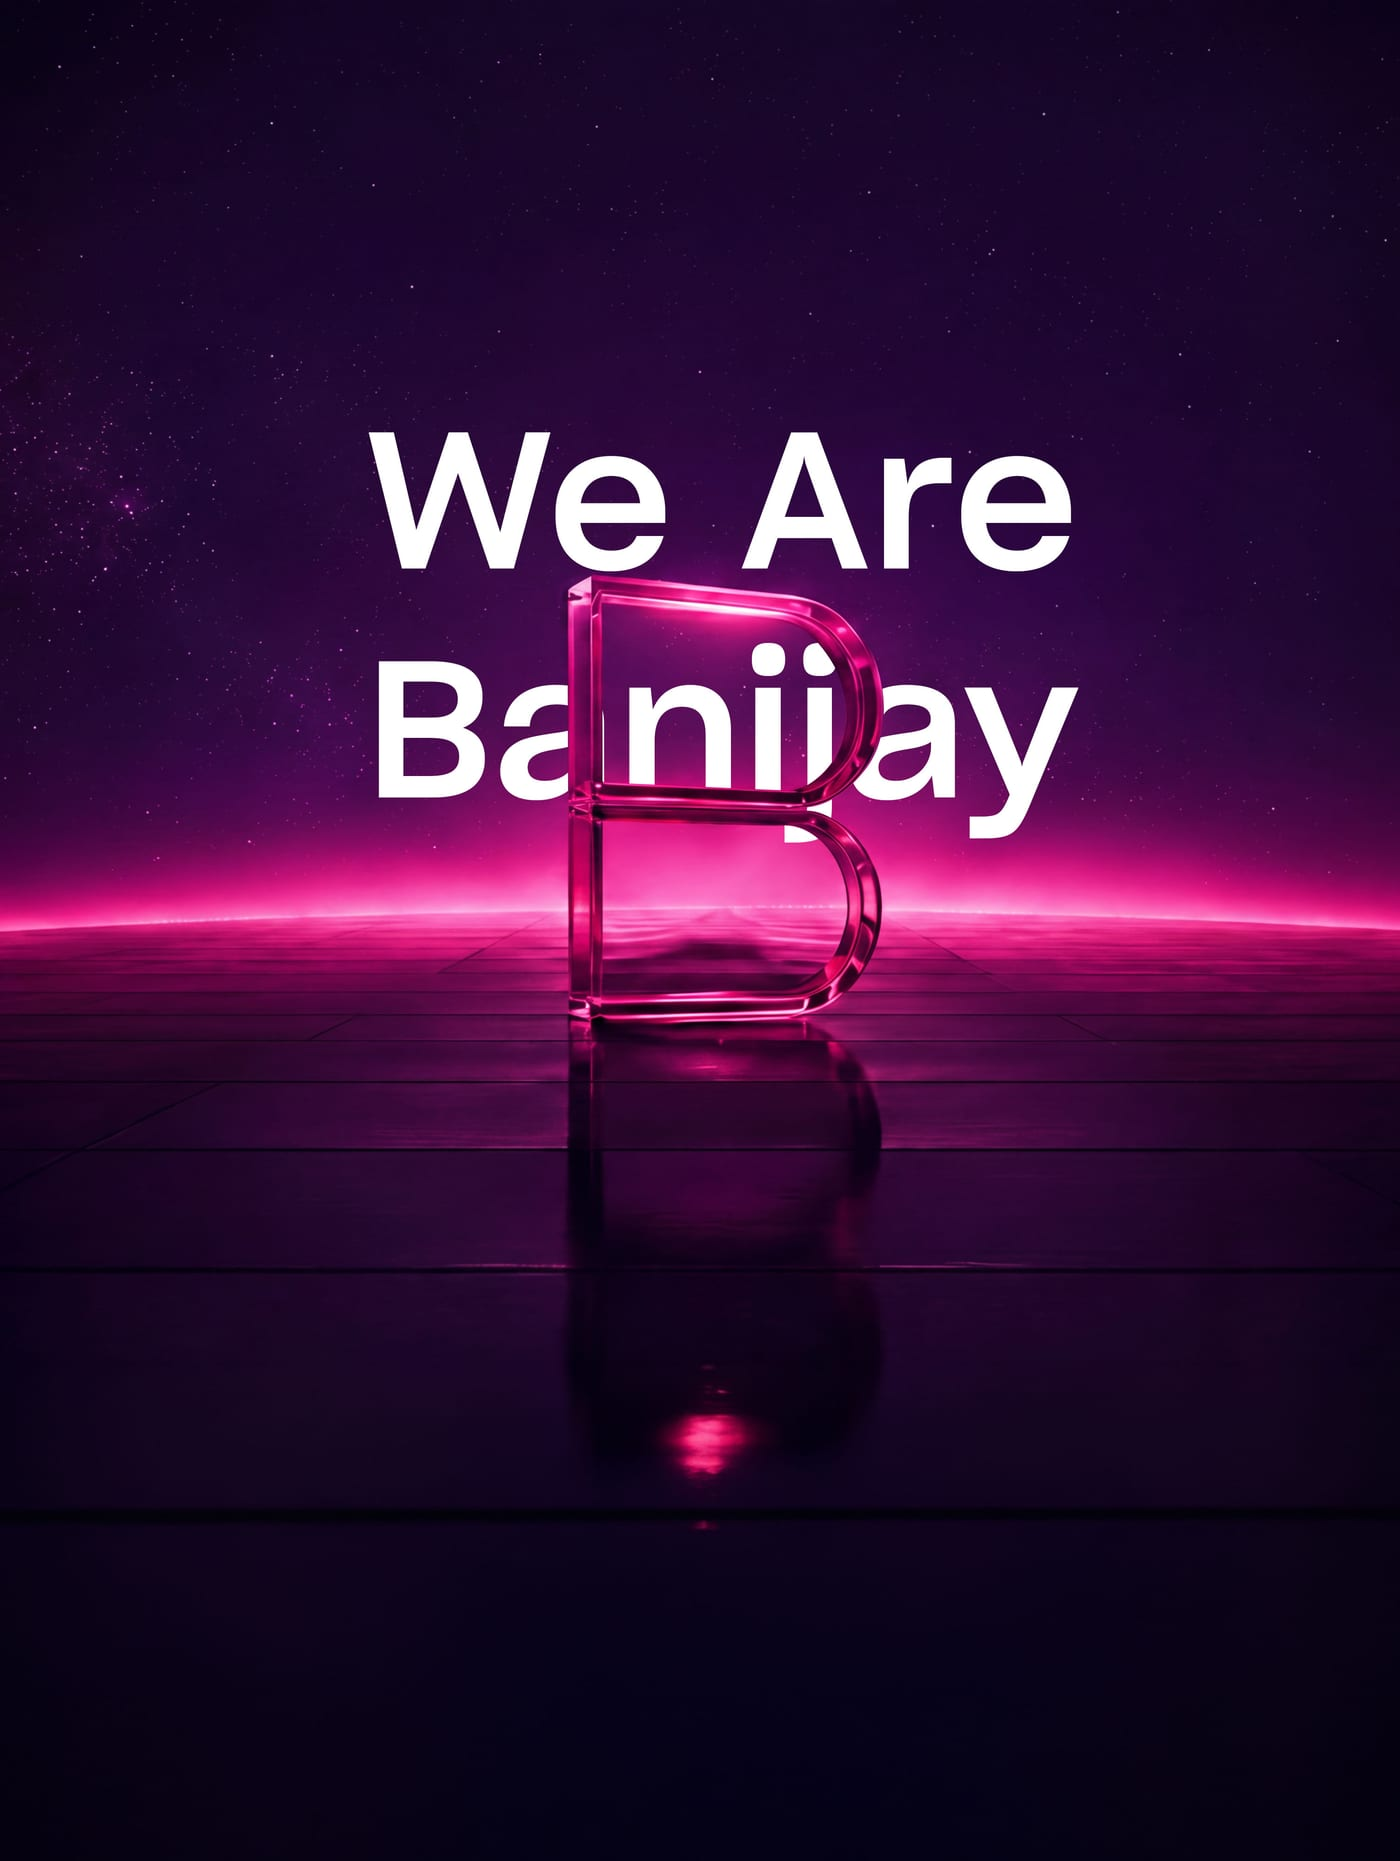
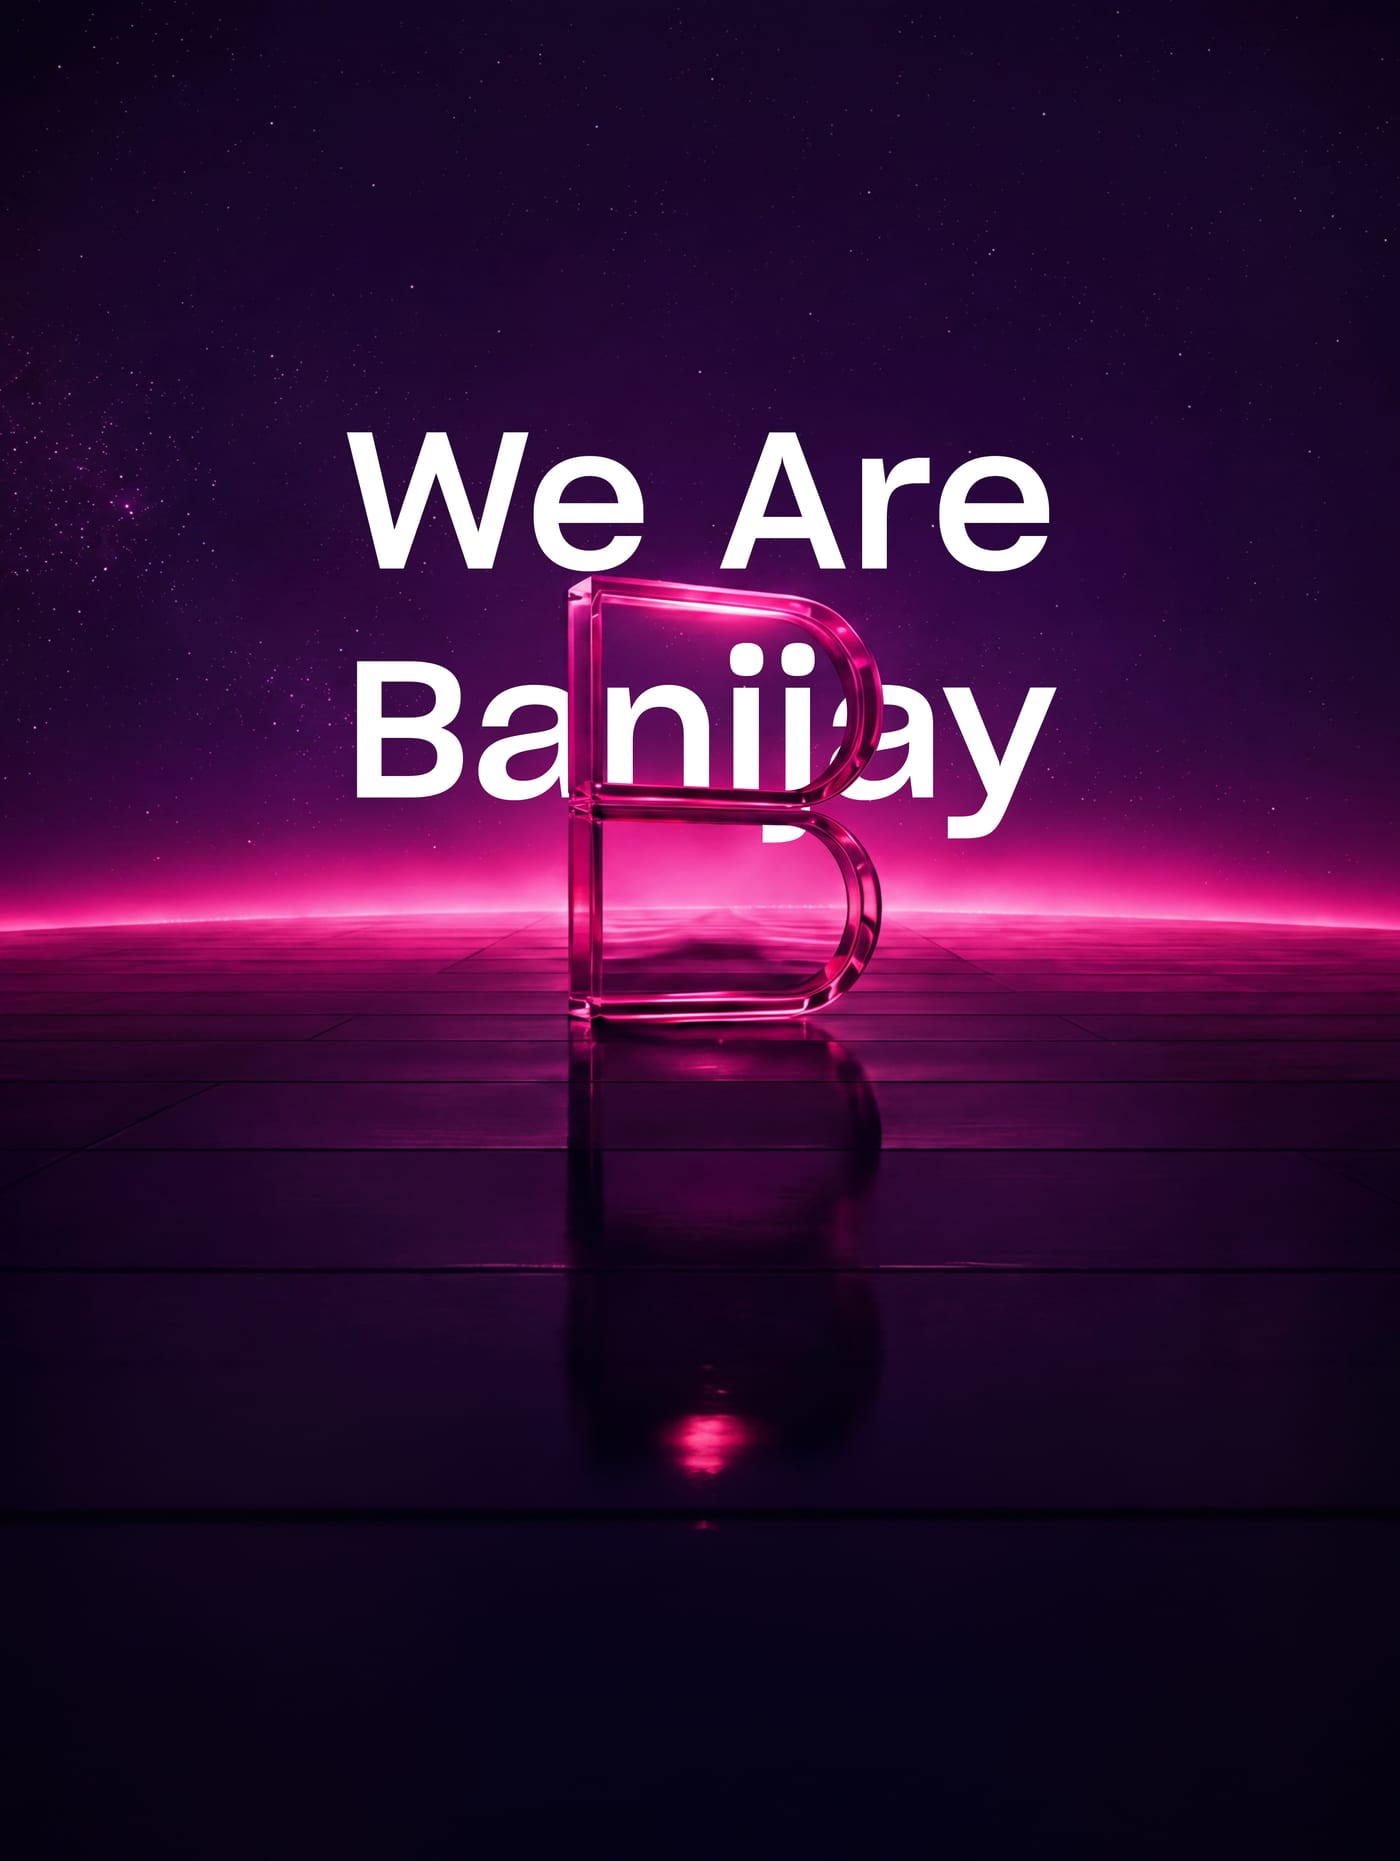
Hero: dritten Frame in allen Sections neu (Desktop + Mobile)
Reiner Asset-Tausch aus dem aktualisierten assets/Visuals/Hero-Ordner, keine
Code-Aenderung. Je 5 Desktop (2880x2129) + 5 Mobile (1400x1861 hochkant):
Home, About, Career, News und die ungenutzte Companies-Variante. mozjpeg q82,
gleiche Dateinamen und Maße wie zuvor.

Changed region(s): [[0.2457, 0.3428, 0.7679, 0.4675], [0.2457, 0.2182, 0.4914, 0.3117], [0.5221, 0.2182, 0.7679, 0.3117]]

diff --git a/CHANGELOG.md b/CHANGELOG.md
@@ -5,6 +5,16 @@ Alle nennenswerten Änderungen an diesem Projekt. Format angelehnt an
 
 ## [redesign-v2] — Branch (Preview) — 2026-07-16
 
+### Hero: dritter Frame neu (20.07.)
+- **Alle Frame-3-Hero-Motive** (der „We Are Banijay"-Typo-Frame) aus dem aktualisierten
+  `assets/Visuals/Hero`-Ordner neu weboptimiert — je 5 Desktop + 5 Mobile: Home, About,
+  Career, News und die (aktuell ungenutzte) Companies-Variante.
+- Reiner Asset-Tausch, KEINE Code-Änderung: Die Dateinamen und Maße bleiben (Desktop
+  2880×2129, Mobile 1400×1861 hochkant), nur die Bildinhalte sind neu. mozjpeg q82,
+  Desktop ~150–167 KB, Mobile ~88–102 KB.
+- Companies-Variante mitgezogen, obwohl in keiner Section referenziert (kein
+  Companies-Hero auf der Seite) — hält den Satz konsistent.
+
 ### Company-Logos, Team-Layout, IP-Ticker (20.07., zweiter Block)
 - **Company-Logo-Abstand fest statt prozentual.** Vorher `right-[4%] top-[6%]` — Prozent
   oben rechnet gegen die Höhe, Prozent rechts gegen die Breite, also liefen die Abstände
